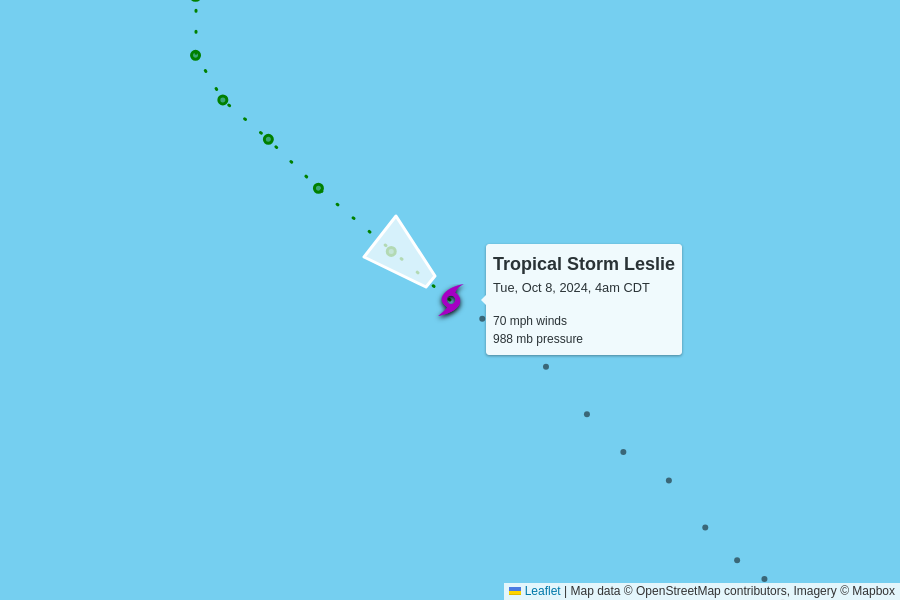
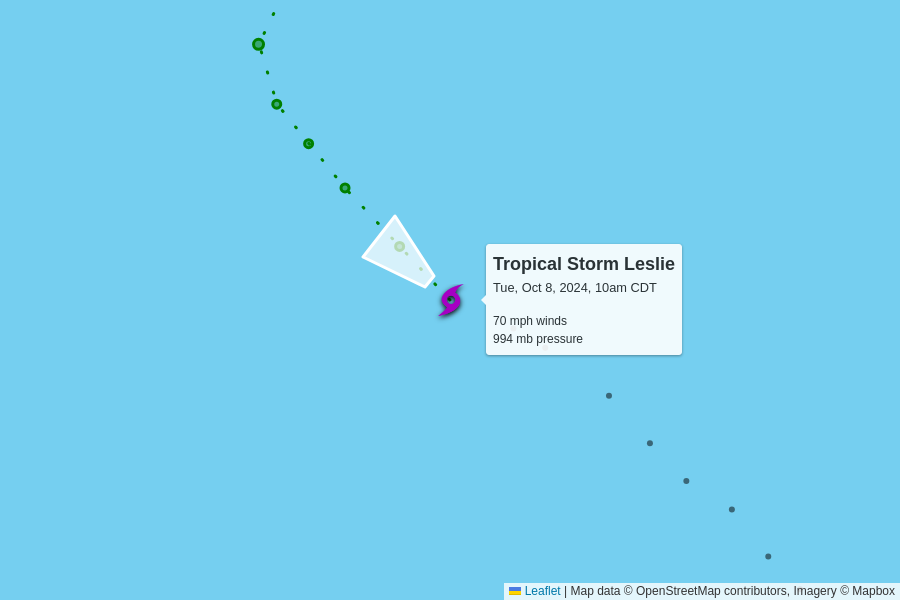
automatic update

diff --git a/docs/index.html b/docs/index.html
@@ -101,54 +101,10 @@
 
     <table>
       <tr>
-        <td colspan="6" class="storm category-4" >
-          <h2>
-            Hurricane Milton - Category 4
-            <p class="updated">last updated <span data-time>2024-10-08T12:00:00.000Z</span></p>
-          </h2>
-        </td>
-      </tr>
-      
-      <tr>
-        <th class="spacer"></th>
-        <th>wind speed</th>
-        <th>central pressure</th>
-        <th>movement</th>
-        <th>data (CSV)</th>
-        <th>National Hurricane Center</th>
-      </tr>
-      <tr>
-        <td class="spacer"></td>
-        <td>145 mph<br>-10 mph since last update</td>
-        <td>929 mb<br>+5 mb since last update</td>
-        <td>
-          12 mph to the east-northeast
-          <br/>
-          <span style="display: inline-block; font-size: 1.5em; transform: rotate(75deg);">↑</span>
-        </td>
-        <td><a href="https://raw.githubusercontent.com/mgwalker/atlantic-hurricanes/main/data/csv/AL142024.csv">AL142024.csv</a></td>
-        <td><a href="https://www.nhc.noaa.gov/archive/2024/MILTON.shtml?">NHC advisories</a></td>
-      </tr>
-      <tr id="storm_AL142024" >
-        <td class="spacer">
-        <td colspan="5">
-          <figure>
-            <img src="AL142024.png">
-            <figcaption>
-              Map data &copy; <a href="https://www.openstreetmap.org/copyright">OpenStreetMap</a> contributors,
-              Imagery &copy; <a href="https://www.mapbox.com/">Mapbox</a> |
-              <a href="https://www.mapbox.com/map-feedback/" target="_blank">Improve this map</a>
-            </figcaption>
-          </figure>
-        </td>
-      </tr>
-      
-
-      <tr>
         <td colspan="6" class="storm category-0" >
           <h2>
             Tropical Storm Leslie
-            <p class="updated">last updated <span data-time>2024-10-08T09:00:00.000Z</span></p>
+            <p class="updated">last updated <span data-time>2024-10-08T15:00:00.000Z</span></p>
           </h2>
         </td>
       </tr>
@@ -163,8 +119,8 @@
       </tr>
       <tr>
         <td class="spacer"></td>
-        <td>70 mph<br>-5 mph since last update</td>
-        <td>988 mb<br>0 mb since last update</td>
+        <td>70 mph<br>0 mph since last update</td>
+        <td>994 mb<br>+6 mb since last update</td>
         <td>
           13 mph to the northwest
           <br/>
@@ -178,6 +134,50 @@
         <td colspan="5">
           <figure>
             <img src="AL132024.png">
+            <figcaption>
+              Map data &copy; <a href="https://www.openstreetmap.org/copyright">OpenStreetMap</a> contributors,
+              Imagery &copy; <a href="https://www.mapbox.com/">Mapbox</a> |
+              <a href="https://www.mapbox.com/map-feedback/" target="_blank">Improve this map</a>
+            </figcaption>
+          </figure>
+        </td>
+      </tr>
+      
+
+      <tr>
+        <td colspan="6" class="storm category-4" >
+          <h2>
+            Hurricane Milton - Category 4
+            <p class="updated">last updated <span data-time>2024-10-08T15:00:00.000Z</span></p>
+          </h2>
+        </td>
+      </tr>
+      
+      <tr>
+        <th class="spacer"></th>
+        <th>wind speed</th>
+        <th>central pressure</th>
+        <th>movement</th>
+        <th>data (CSV)</th>
+        <th>National Hurricane Center</th>
+      </tr>
+      <tr>
+        <td class="spacer"></td>
+        <td>150 mph<br>+5 mph since last update</td>
+        <td>929 mb<br>0 mb since last update</td>
+        <td>
+          9 mph to the east-northeast
+          <br/>
+          <span style="display: inline-block; font-size: 1.5em; transform: rotate(65deg);">↑</span>
+        </td>
+        <td><a href="https://raw.githubusercontent.com/mgwalker/atlantic-hurricanes/main/data/csv/AL142024.csv">AL142024.csv</a></td>
+        <td><a href="https://www.nhc.noaa.gov/archive/2024/MILTON.shtml?">NHC advisories</a></td>
+      </tr>
+      <tr id="storm_AL142024" >
+        <td class="spacer">
+        <td colspan="5">
+          <figure>
+            <img src="AL142024.png">
             <figcaption>
               Map data &copy; <a href="https://www.openstreetmap.org/copyright">OpenStreetMap</a> contributors,
               Imagery &copy; <a href="https://www.mapbox.com/">Mapbox</a> |
